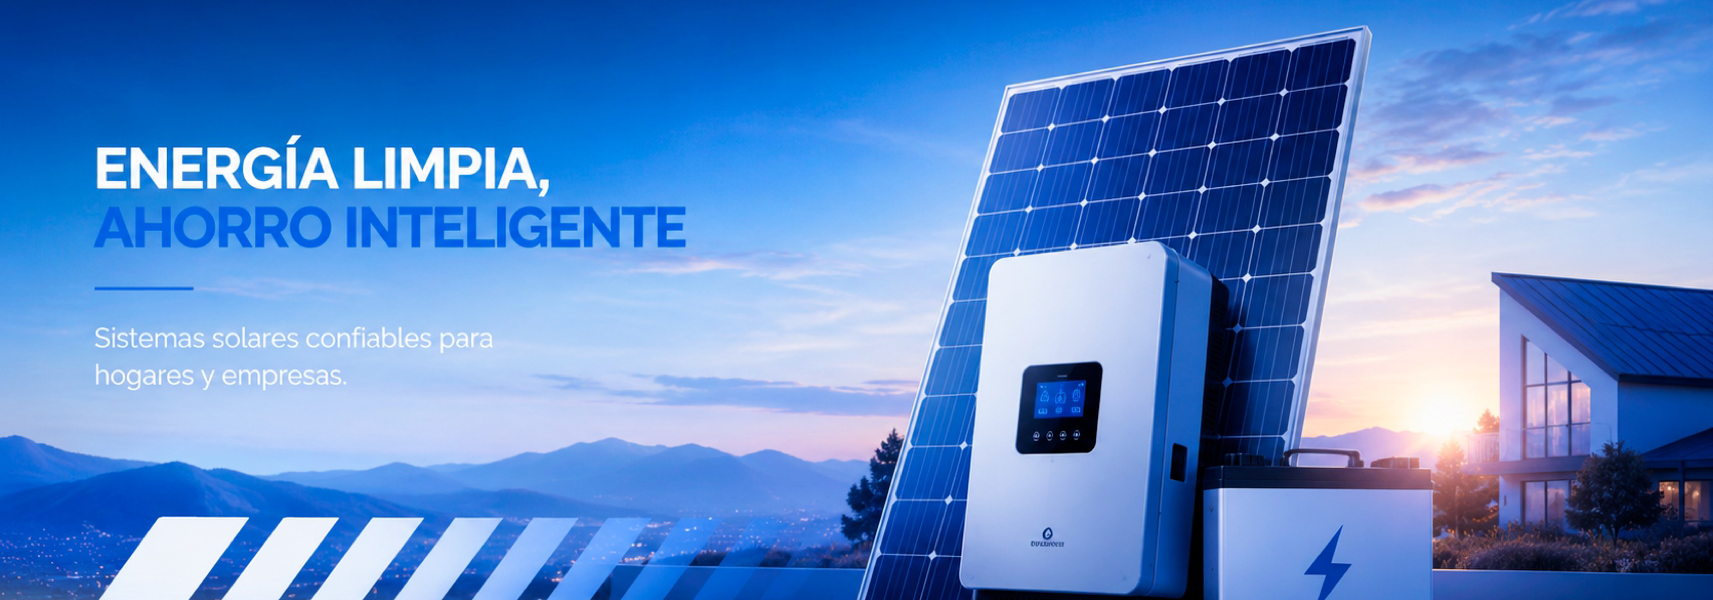
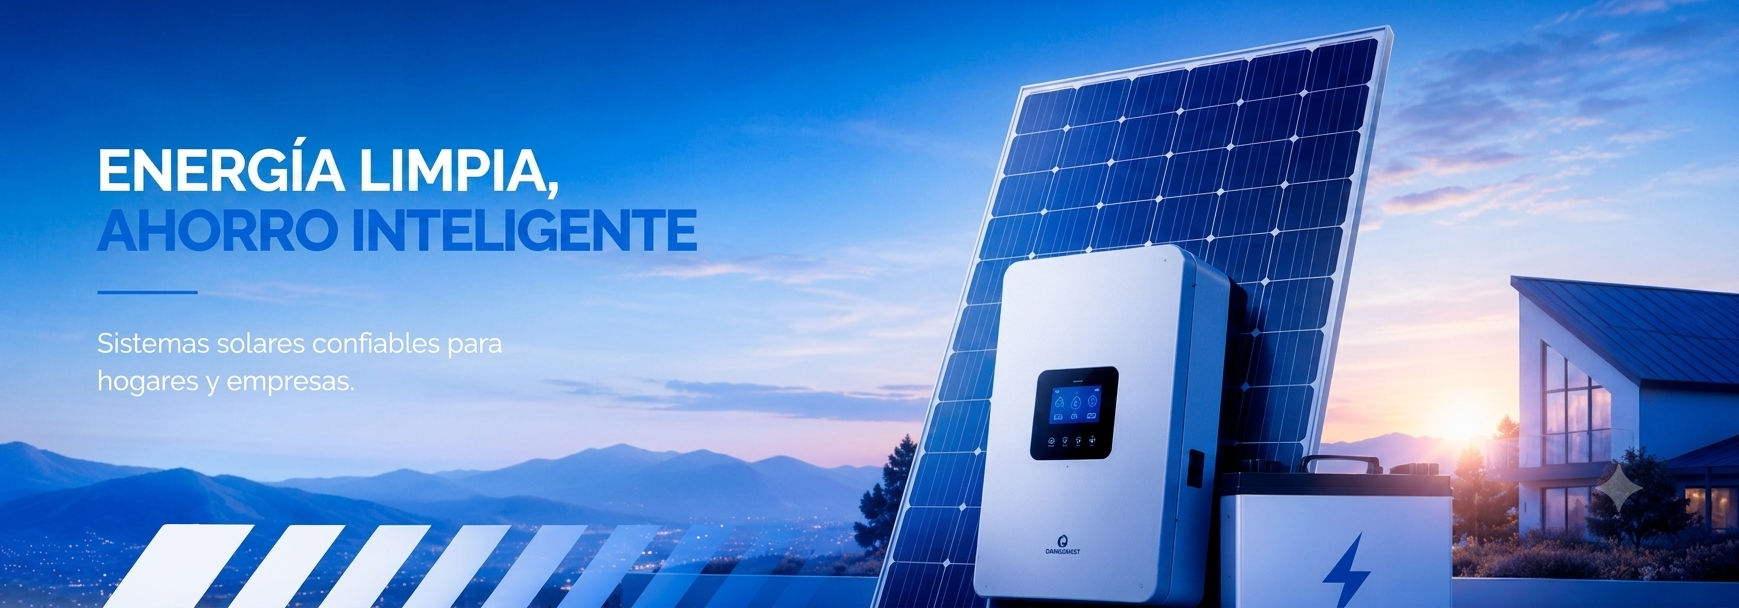
refactor: Update background images in CalculatorPage and ProductsPage, and adjust parallax settings in HeroSection for improved visual consistency

diff --git a/components/home/HeroSection.tsx b/components/home/HeroSection.tsx
@@ -3,15 +3,14 @@
 import Image from "next/image";
 import { useEffect, useRef } from "react";
 
-// El hero es más alto que la relación nativa de la imagen (muy panorámica), por
-// lo que se usa object-cover anclado a la IZQUIERDA: el texto y el panel se
-// conservan y solo se recorta un poco del borde derecho.
-// La capa se renderiza un poco más alta que la ventana (overscan); ese margen
-// es el recorrido del desplazamiento parallax vertical.
-const SECTION_RATIO = "1713 / 640";
-const OVERSCAN = 0.12;
+// La capa conserva la relación NATIVA de la imagen (1376 x 768) y ocupa el
+// ancho completo → nunca se recorta por los lados (texto y equipos íntegros).
+// La ventana visible es un poco más baja; esa diferencia es el recorrido del
+// desplazamiento parallax vertical (solo recorta un poco de cielo/piso).
+const IMAGE_RATIO = "1739 / 608";
+const VIEWPORT_RATIO = "1739 / 520";
 // 0 = sin movimiento · 1 = usa todo el recorrido disponible.
-const PARALLAX = 1;
+const PARALLAX = 0.6;
 
 export default function HeroSection() {
   const sectionRef = useRef<HTMLElement>(null);
@@ -22,8 +21,13 @@ export default function HeroSection() {
     const layer = layerRef.current;
     if (!section || !layer) return;
 
+    const applyRest = () => {
+      const overflow = Math.max(layer.offsetHeight - section.offsetHeight, 0);
+      layer.style.transform = `translate3d(0, ${-overflow / 2}px, 0)`;
+    };
+
     if (window.matchMedia("(prefers-reduced-motion: reduce)").matches) {
-      layer.style.transform = "translate3d(0, 0, 0)";
+      applyRest();
       return;
     }
 
@@ -37,12 +41,13 @@ export default function HeroSection() {
       const overflow = Math.max(layerHeight - sectionHeight, 0);
       // Progreso 0 → 1 mientras la sección cruza el viewport hacia arriba.
       const progress = Math.min(Math.max(-rect.top / sectionHeight, 0), 1);
-      // Al cargar (0) se ve la parte superior (título). Al hacer scroll la
-      // imagen se desplaza hacia arriba → parallax. Acotado a [-overflow, 0].
-      const shift = -progress * overflow * PARALLAX;
-      layer.style.transform = `translate3d(0, ${Math.round(
-        Math.min(Math.max(shift, -overflow), 0)
-      )}px, 0)`;
+      // En reposo (0) la imagen queda centrada (se ve completa). Al hacer
+      // scroll baja lentamente → parallax. Acotado a [-overflow, 0].
+      const shift = Math.min(
+        Math.max(-overflow / 2 + progress * overflow * PARALLAX, -overflow),
+        0
+      );
+      layer.style.transform = `translate3d(0, ${Math.round(shift)}px, 0)`;
     };
 
     const onScroll = () => {
@@ -65,20 +70,20 @@ export default function HeroSection() {
     <section
       ref={sectionRef}
       className="w-full relative overflow-hidden"
-      style={{ aspectRatio: SECTION_RATIO }}
+      style={{ aspectRatio: VIEWPORT_RATIO }}
     >
       <div
         ref={layerRef}
         className="absolute left-0 top-0 w-full"
-        style={{ height: `${(1 + OVERSCAN) * 100}%`, willChange: "transform" }}
+        style={{ aspectRatio: IMAGE_RATIO, willChange: "transform" }}
       >
         <Image
           src="/images/hero@2x.png"
           alt="Energía limpia, ahorro inteligente"
           fill
           quality={90}
-          sizes="125vw"
-          className="object-cover object-left"
+          sizes="100vw"
+          className="object-cover object-center"
           priority
         />
       </div>

diff --git a/components/calculator/CalculatorPage.tsx b/components/calculator/CalculatorPage.tsx
@@ -15,7 +15,7 @@ export default function CalculatorPage() {
           aspectRatio: "16/5",
           minHeight: 160,
           maxHeight: 320,
-          backgroundImage: "url('/images/hero.png')",
+          backgroundImage: "url('/images/hero@2x.png')",
           backgroundSize: "cover",
           backgroundPosition: "center 32%",
         }}
@@ -80,13 +80,8 @@ export default function CalculatorPage() {
                 Sistema solar
               </label>
               <select
-                className="w-full rounded-xl px-4 py-3 font-semibold"
-                style={{
-                  background: "rgba(255,255,255,0.15)",
-                  color: "white",
-                  border: "1px solid rgba(255,255,255,0.3)",
-                  fontSize: 14,
-                }}
+                aria-label="Sistema solar"
+                className="w-full rounded-xl px-4 py-3 font-semibold text-sm text-white bg-white/15 border border-white/30"
               >
                 <option style={{ color: "#16245c" }}>
                   Plan Estándar - 5 Paneles + Inversor + Batería

diff --git a/components/products/ProductsPage.tsx b/components/products/ProductsPage.tsx
@@ -24,7 +24,7 @@ export default function ProductsPage() {
           aspectRatio: "16/5",
           minHeight: 160,
           maxHeight: 320,
-          backgroundImage: "url('/images/hero.png')",
+          backgroundImage: "url('/images/hero@2x.png')",
           backgroundSize: "cover",
           backgroundPosition: "center 32%",
         }}
